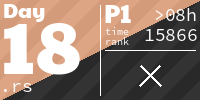
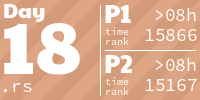
tiles

diff --git a/README.md b/README.md
@@ -17,10 +17,10 @@
 ## Scores
 <!-- AOC TILES BEGIN -->
 <h1 align="center">
-  Advent of Code - 109/486 ⭐
+  Advent of Code - 110/486 ⭐
 </h1>
 <h1 align="center">
-  2024 - 35 ⭐ - Rust
+  2024 - 36 ⭐ - Rust
 </h1>
 <a href="aoc-2024/src/day01.rs">
   <img src=".aoc_tiles/tiles/2024/01.png" width="161px">
